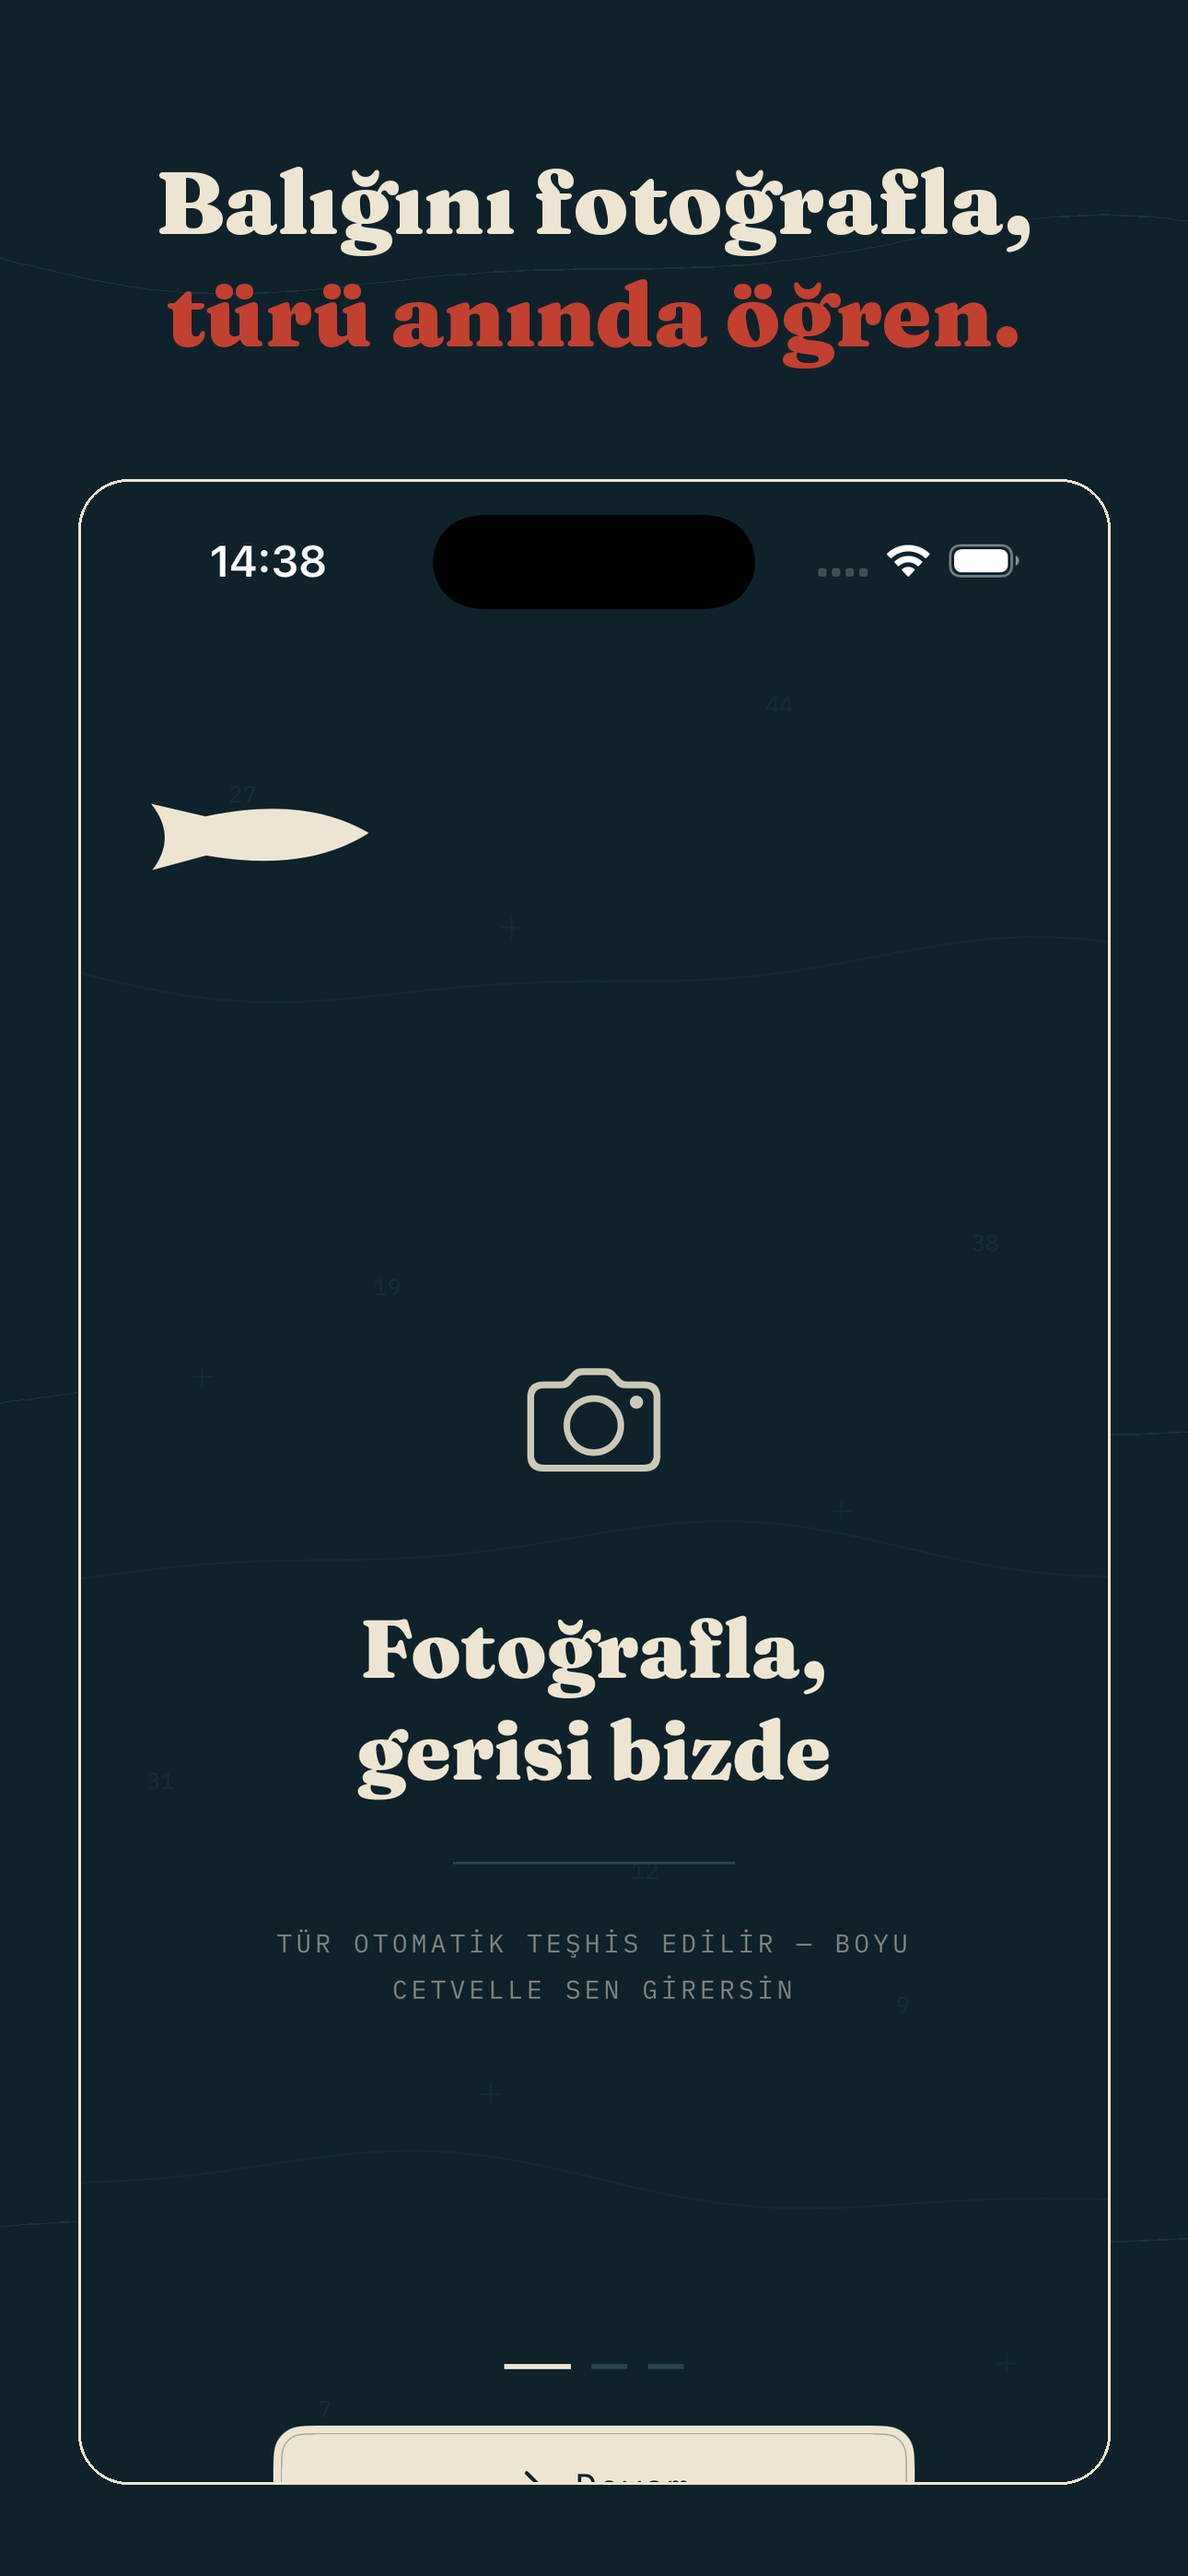
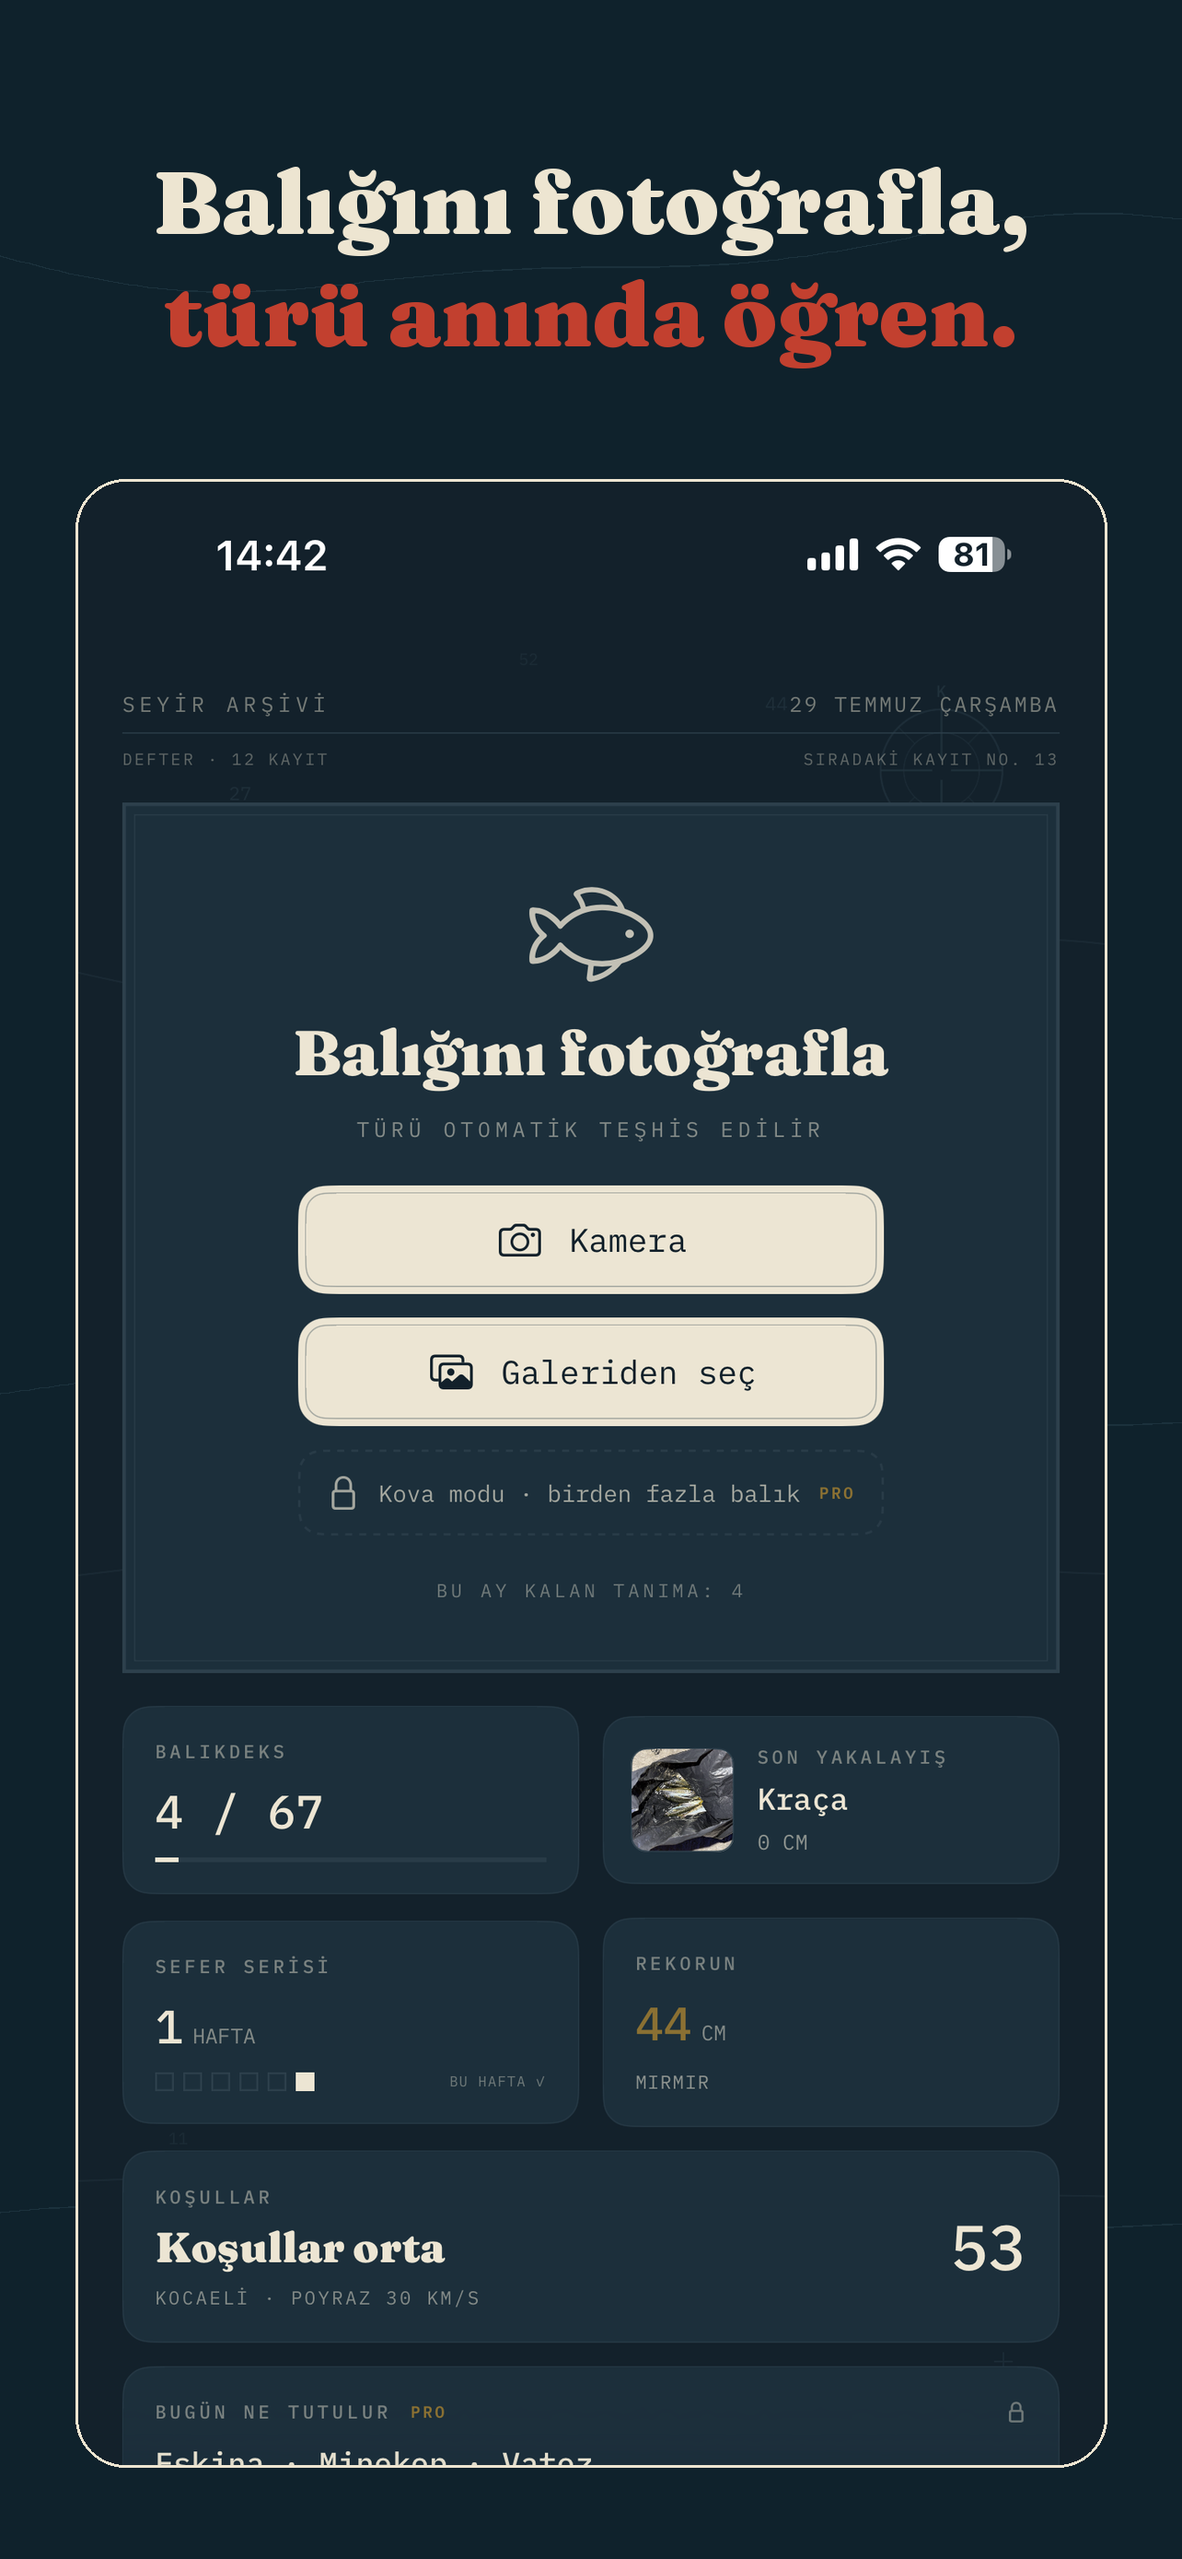
Screenshots: output 1284x2778 (App Store 6.5" slot — was 1290x2796 rejected); fix #4 caption to match the region/GBIF screen; add owner's 6 real captures

diff --git a/tools/frame_screenshots.py b/tools/frame_screenshots.py
@@ -9,8 +9,8 @@ WORKFLOW:
   2. Run:  python3 tools/frame_screenshots.py
   3. Upload appstore/framed/*.png to App Store Connect (iPhone 6.9" slot).
 
-Output is 1290x2796 (iPhone 6.9" display — the size App Store Connect asks for
-now). Flat ink background, Fraunces caption (2nd line in stamp red), faint
+Output is 1284x2778 (the 6.5" iPhone slot App Store Connect accepts; also valid
+for 6.9"). Flat ink background, Fraunces caption (2nd line in stamp red), faint
 chart contours, a paper-bordered rounded screenshot. No gradients (§6).
 
 Needs Pillow:  pip install pillow
@@ -20,7 +20,7 @@ import os
 import sys
 from PIL import Image, ImageDraw, ImageFont
 
-W, H = 1290, 2796
+W, H = 1284, 2778   # 6.5" slot — the size App Store Connect accepts (matches ToneAmp)
 BG = (15, 34, 44)        # --murekkep-koyu  #0F222C
 FG = (237, 229, 209)     # --kagit          #EDE5D1
 ACCENT = (194, 64, 47)   # --muhur          #C2402F
@@ -35,7 +35,7 @@ CAPTIONS = [
     ("Balığını fotoğrafla,", "türü anında öğren."),
     ("Her yakalayış,", "bir koleksiyon kartı."),
     ("70 tür seni bekliyor.", "Balıkdeks'ini doldur."),
-    ("Boy ve sezon kuralları,", "tek bakışta."),
+    ("Her tür,", "hangi denizde?"),
     ("Yakaladığın nokta", "sende kalır."),
     ("Bugün ne tutulur?", "Koşullar hazır."),
 ]
